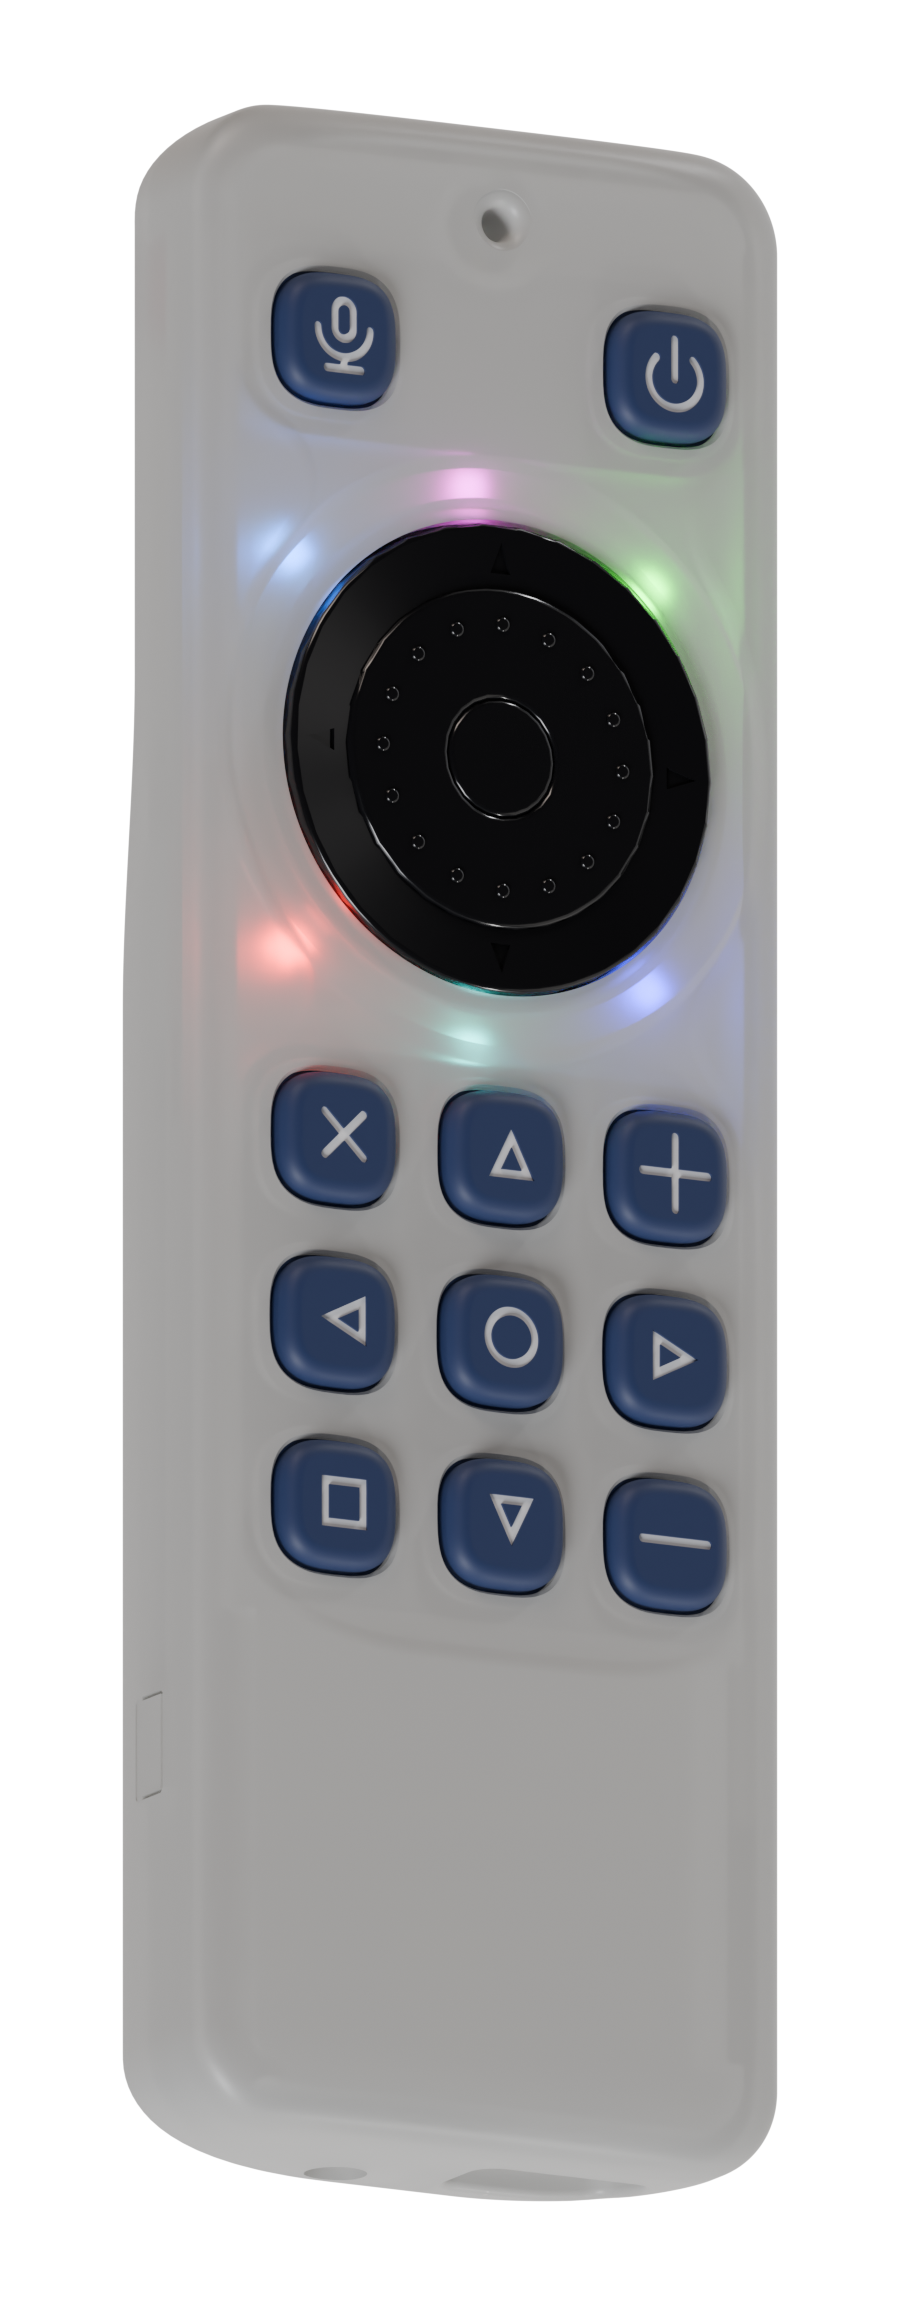
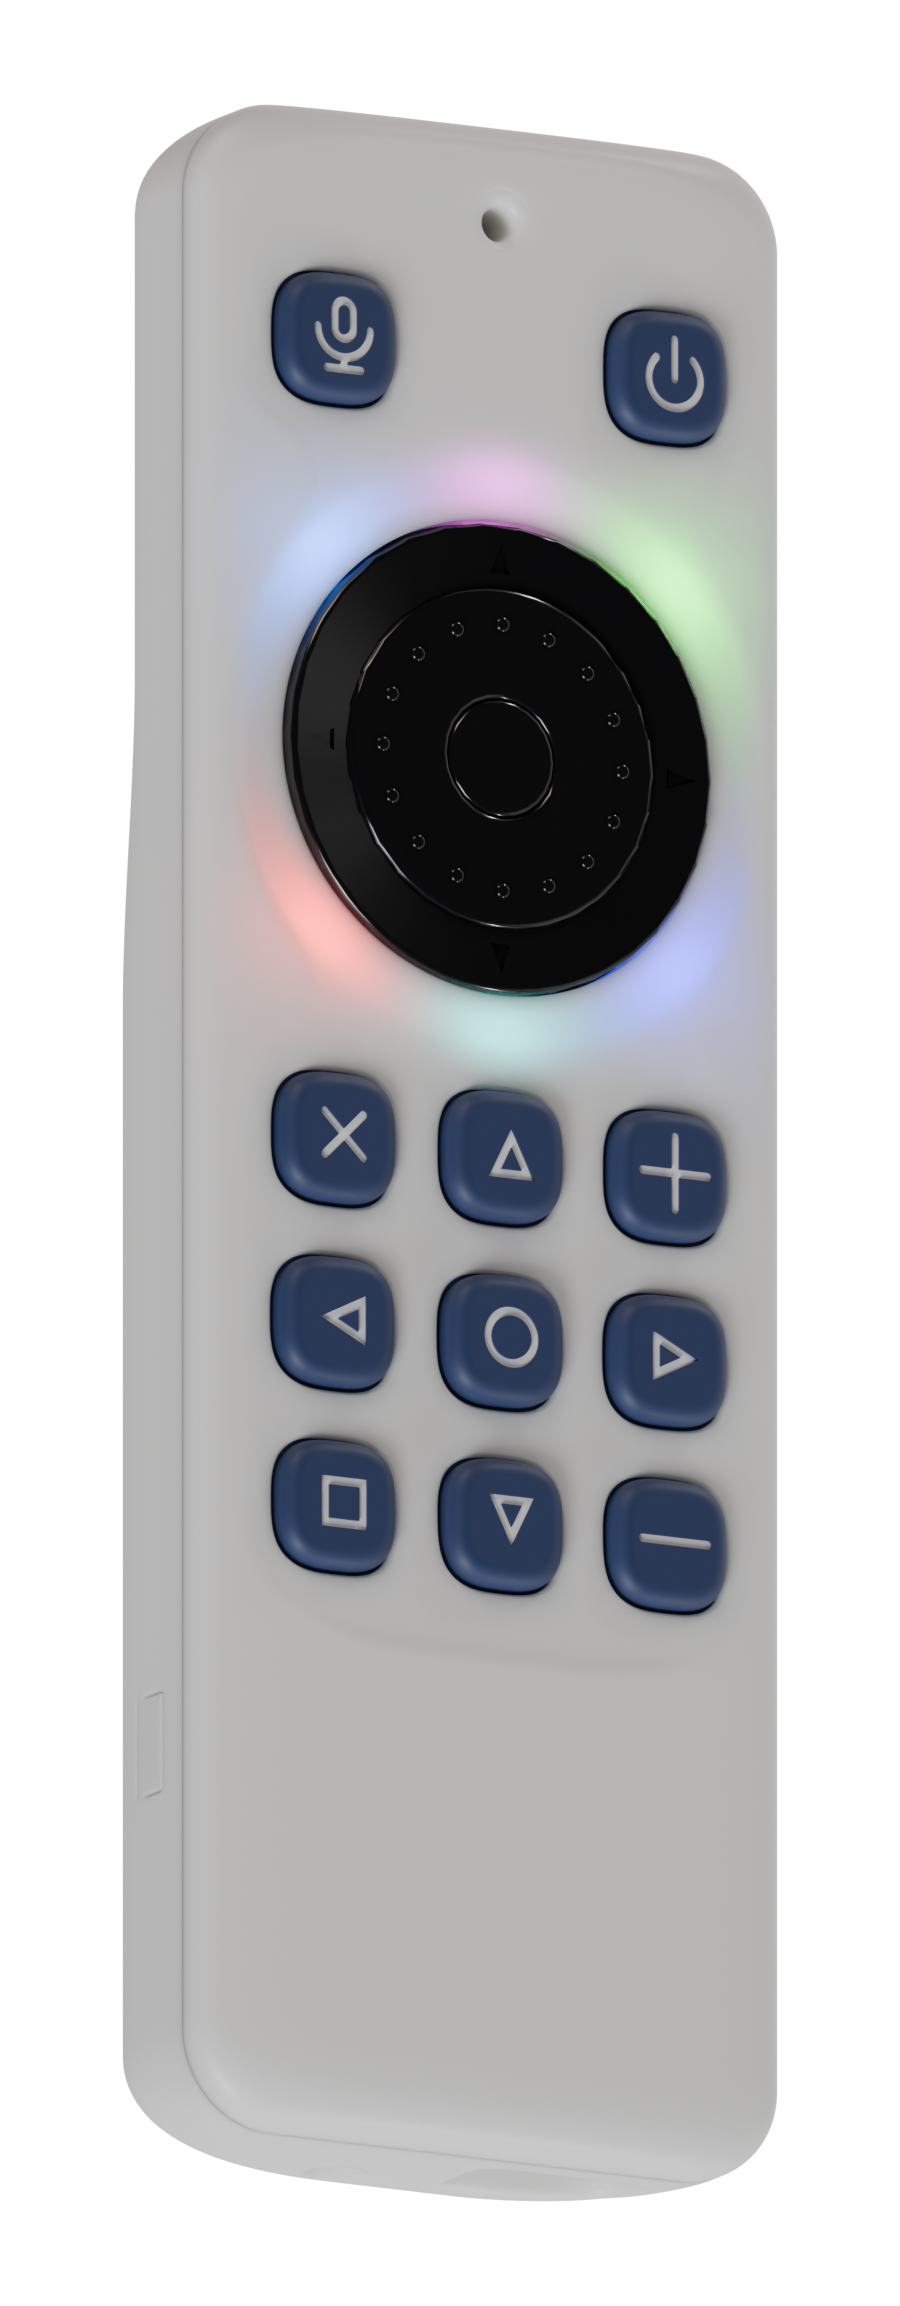
docs(case): render the white shell with thickness-aware subsurface and add the old vs thin roof glow comparison

diff --git a/case/README.md b/case/README.md
@@ -161,6 +161,13 @@ A white filament also works. The roof over the LED ring channel is `LED_RING_FAC
 </p>
 <p align="center"><sub>White front with the status LEDs on</sub></p>
 
+A white shell scatters the light inside the plastic, so a thinner roof lets more LED light through. The comparison shows the glow through the old roof and through the thin roof.
+
+<p align="center">
+  <img alt="Two white c6remote fronts with the status LEDs on. The front with the thin roof over the LED ring channel shows a brighter and more even ring. A second row shows only the LED light for each front" src="../docs/readme-assets/case-white-roof-glow.png" width="450">
+</p>
+<p align="center"><sub>Old roof (left) and thin roof (right) in a white shell</sub></p>
+
 The IR window material must transmit 940 nm infrared light. Test the selected filament with a physical remote.
 
 If the shell filament blocks too much infrared light, make the same insert from IR-pass acrylic.
